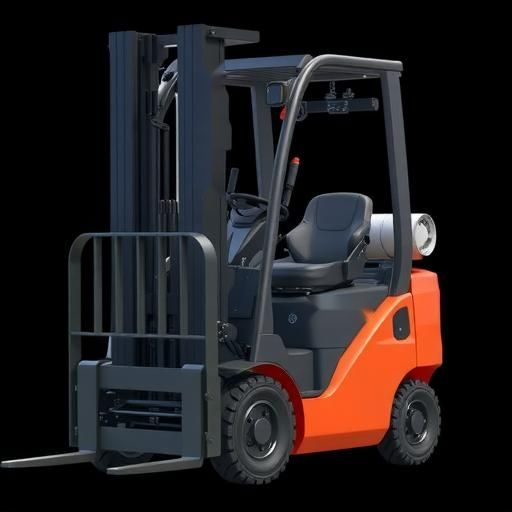
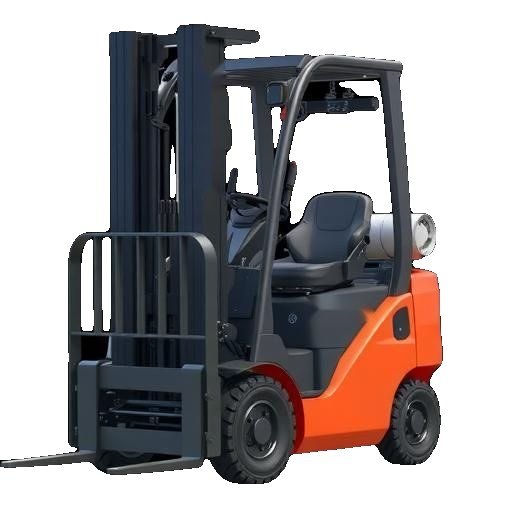
Foto del garage su sfondo bianco e pallet meno facili da far cadere
- Sfondo rimosso dalle foto 1, 5 e 6 (tutte su bianco come le altre)
- Stabilita' del carico: limite in curva ~2,7x piu' alto, forche inclinate in avanti
  o strette fanno cadere il pallet solo con velocita' e tempi molto maggiori

Claude-Session: https://claude.ai/code/session_01Bxyh3EuJxdX6XaTLeuMMJs

diff --git a/src/game/forklift.js b/src/game/forklift.js
@@ -504,21 +504,22 @@ export class Forklift {
     const h = this.forkY;
     const speed = Math.abs(this.v);
     const fork = (side) => side * this.spread / 2 - c.lx;
-    const outside = Math.abs(fork(-1)) > 0.58 || Math.abs(fork(1)) > 0.58;
-    const spreadBonus = (this.spread - 0.5) * 2.2;
-    const latLimit = 3.4 - 0.35 * h - 1.1 * loadRatio + spreadBonus;
+    // Soglie ammorbidite (~60% di cadute in meno in curva e con forche inclinate/strette)
+    const outside = Math.abs(fork(-1)) > 0.62 || Math.abs(fork(1)) > 0.62;
+    const spreadBonus = (this.spread - 0.5) * 1.2;
+    const latLimit = 7.5 - 0.3 * h - 0.8 * loadRatio + spreadBonus;
     const brakeLimit = 4.6 - 0.45 * h + this.tilt * 14 - loadRatio;
     let reason = null;
     if (outside) reason = 'widen';
     else if (c.shallow && lifted > 0.08 && c.time > 0.4) reason = 'insertDeeper';
     else if (Math.abs(this.v * yawRate) > latLimit) reason = 'dropped';
     else if (decel > brakeLimit && speed > 0.5) reason = 'dropped';
-    else if (this.tilt < -0.03 && speed > 0.8 && h > 0.3) this.unstable += dt;
-    else if (this.spread < 0.38 && loadRatio > 0.5 && speed > 0.5) {
-      this.unstable += dt;
-      if (this.unstable > 0.8) reason = 'widen';
+    else if (this.tilt < -0.05 && speed > 1.5 && h > 0.8) this.unstable += dt * 0.5;
+    else if (this.spread < 0.32 && loadRatio > 0.7 && speed > 1.0) {
+      this.unstable += dt * 0.5;
+      if (this.unstable > 2.0) reason = 'widen';
     } else this.unstable = Math.max(0, this.unstable - dt);
-    if (this.unstable > 1.0 && !reason) reason = 'dropped';
+    if (this.unstable > 2.5 && !reason) reason = 'dropped';
 
     if (reason) {
       this.emit(reason);
